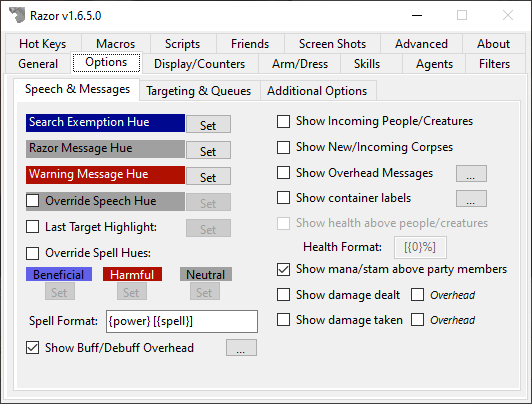
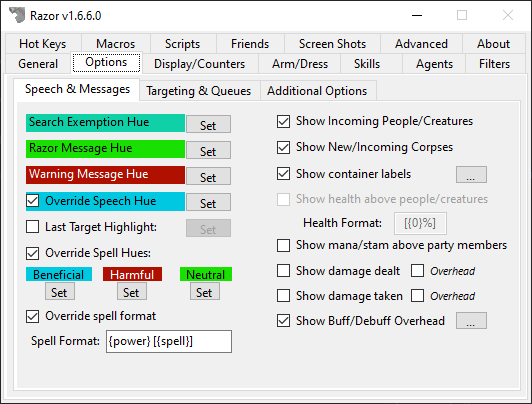
Adjusted a few default settings

diff --git a/Razor/UI/Config.cs b/Razor/UI/Config.cs
@@ -58,8 +58,12 @@ namespace Assistant
             AddProperty("ShowMobNames", false);
             AddProperty("ShowCorpseNames", false);
             AddProperty("DisplaySkillChanges", false);
-            AddProperty("TitleBarText",
-                @"UO - {char} {crimtime}- {mediumstatbar} {bp} {bm} {gl} {gs} {mr} {ns} {ss} {sa} {aids}");
+
+            if (Client.IsOSI)
+                AddProperty("TitleBarText", @"UO - {char} {crimtime}- {mediumstatbar} {bp} {bm} {gl} {gs} {mr} {ns} {ss} {sa} {aids}");
+            else
+                AddProperty("TitleBarText", @"UO - {char}");
+
             AddProperty("TitleBarDisplay", true);
             AddProperty("AutoSearch", true);
             AddProperty("NoSearchPouches", true);
@@ -75,15 +79,15 @@ namespace Assistant
             AddProperty("WindowY", (int) 400);
             AddProperty("CountStealthSteps", true);
 
-            AddProperty("SysColor", (int) 0x03B1);
+            AddProperty("SysColor", (int) 0x0044);
             AddProperty("WarningColor", (int) 0x0025);
             AddProperty("ExemptColor", (int) 0x0480);
             AddProperty("SpeechHue", (int) 0x03B1);
             AddProperty("BeneficialSpellHue", (int) 0x0005);
-            AddProperty("HarmfulSpellHue", (int) 0x0025);
+            AddProperty("HarmfulSpellHue", (int) 0x0058);
             AddProperty("NeutralSpellHue", (int) 0x03B1);
             AddProperty("ForceSpeechHue", false);
-            AddProperty("ForceSpellHue", false);
+            AddProperty("ForceSpellHue", true);
             AddProperty("SpellFormat", @"{power} [{spell}]");
 
             AddProperty("ShowNotoHue", true);
@@ -204,7 +208,7 @@ namespace Assistant
             AddProperty("ShowStaticWallLabels", false);
 
             AddProperty("ShowTextTargetIndicator", false);
-            AddProperty("ShowAttackTargetNewOnly", false);
+            AddProperty("ShowAttackTargetNewOnly", true);
 
             AddProperty("FilterDragonGraphics", false);
             AddProperty("FilterDrakeGraphics", false);

diff --git a/help/docs/help/options.md b/help/docs/help/options.md
@@ -20,6 +20,8 @@
     - When checked, the last target will highlight the selected color. Click the set tab to select the highlight hue.
 * **Override Spell Hues**
     - Like speech, checking this box allows you to select the color for spell text, both words of power or spell names. Colors may be selected for beneficial, harmful, and neutral spells.
+* **Override Spell Format**
+    - If checked, Razor will transform spell power words into the actual spell name.
 * **Spell Format**
     - This field determines how you view spells being cast.
         - `{power}` will show words of power on your screen. These are the actual spell words.
